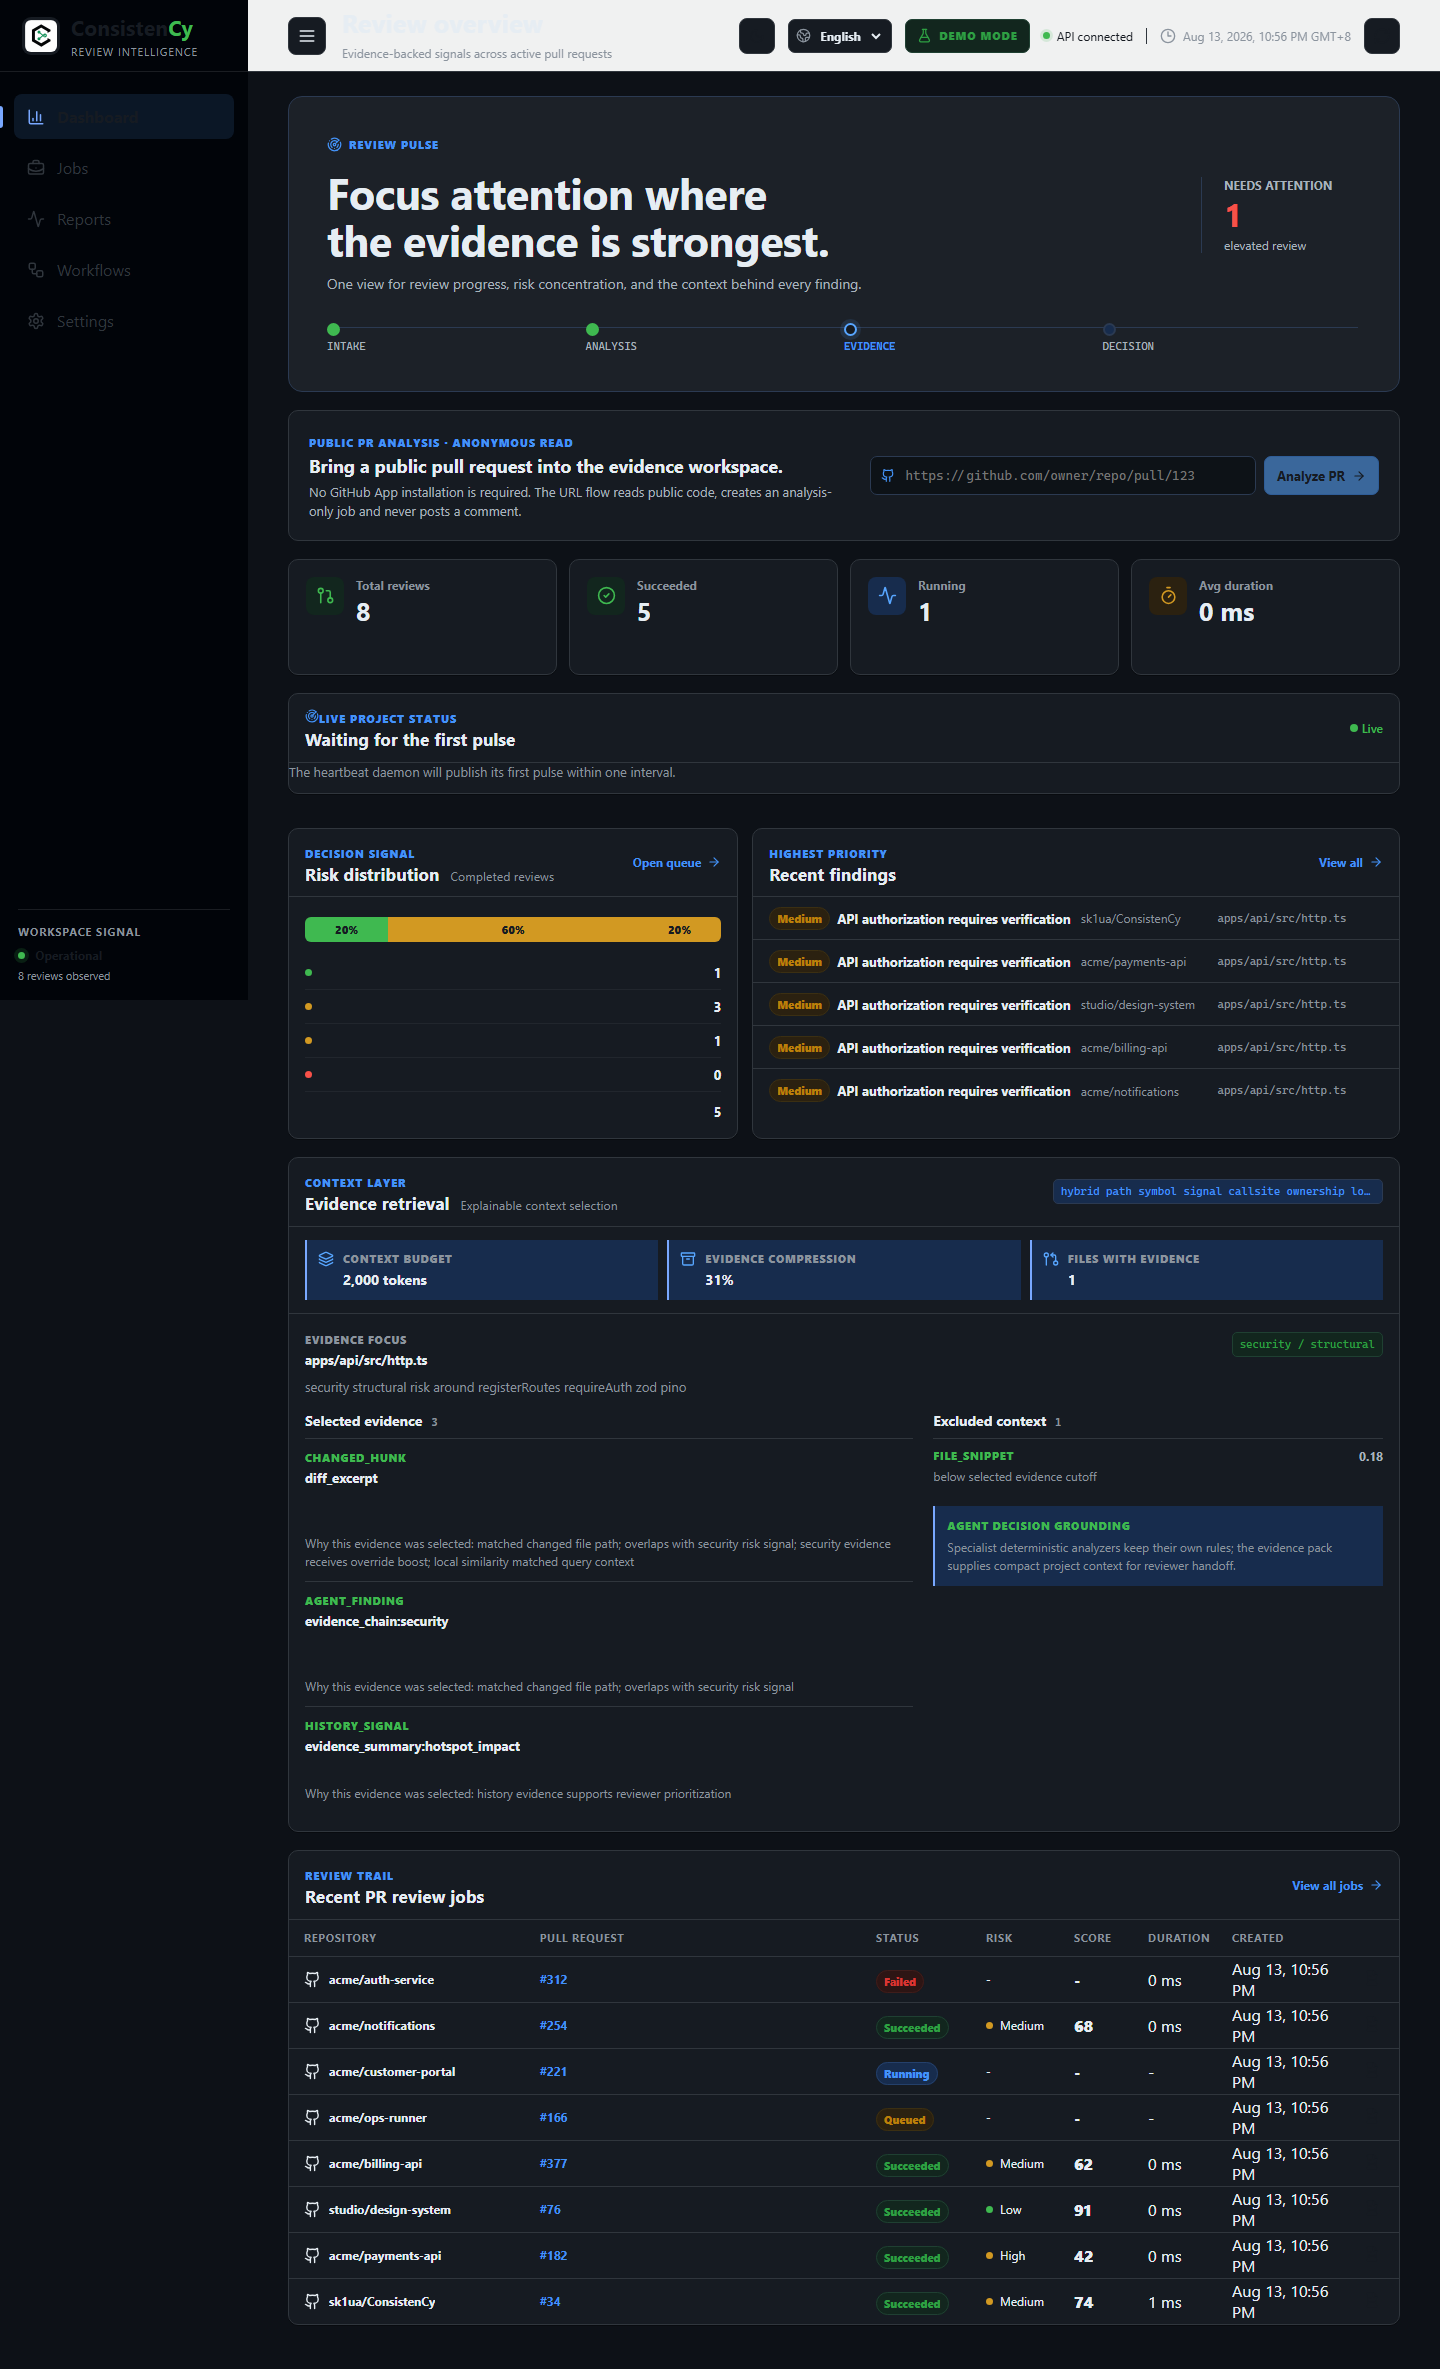
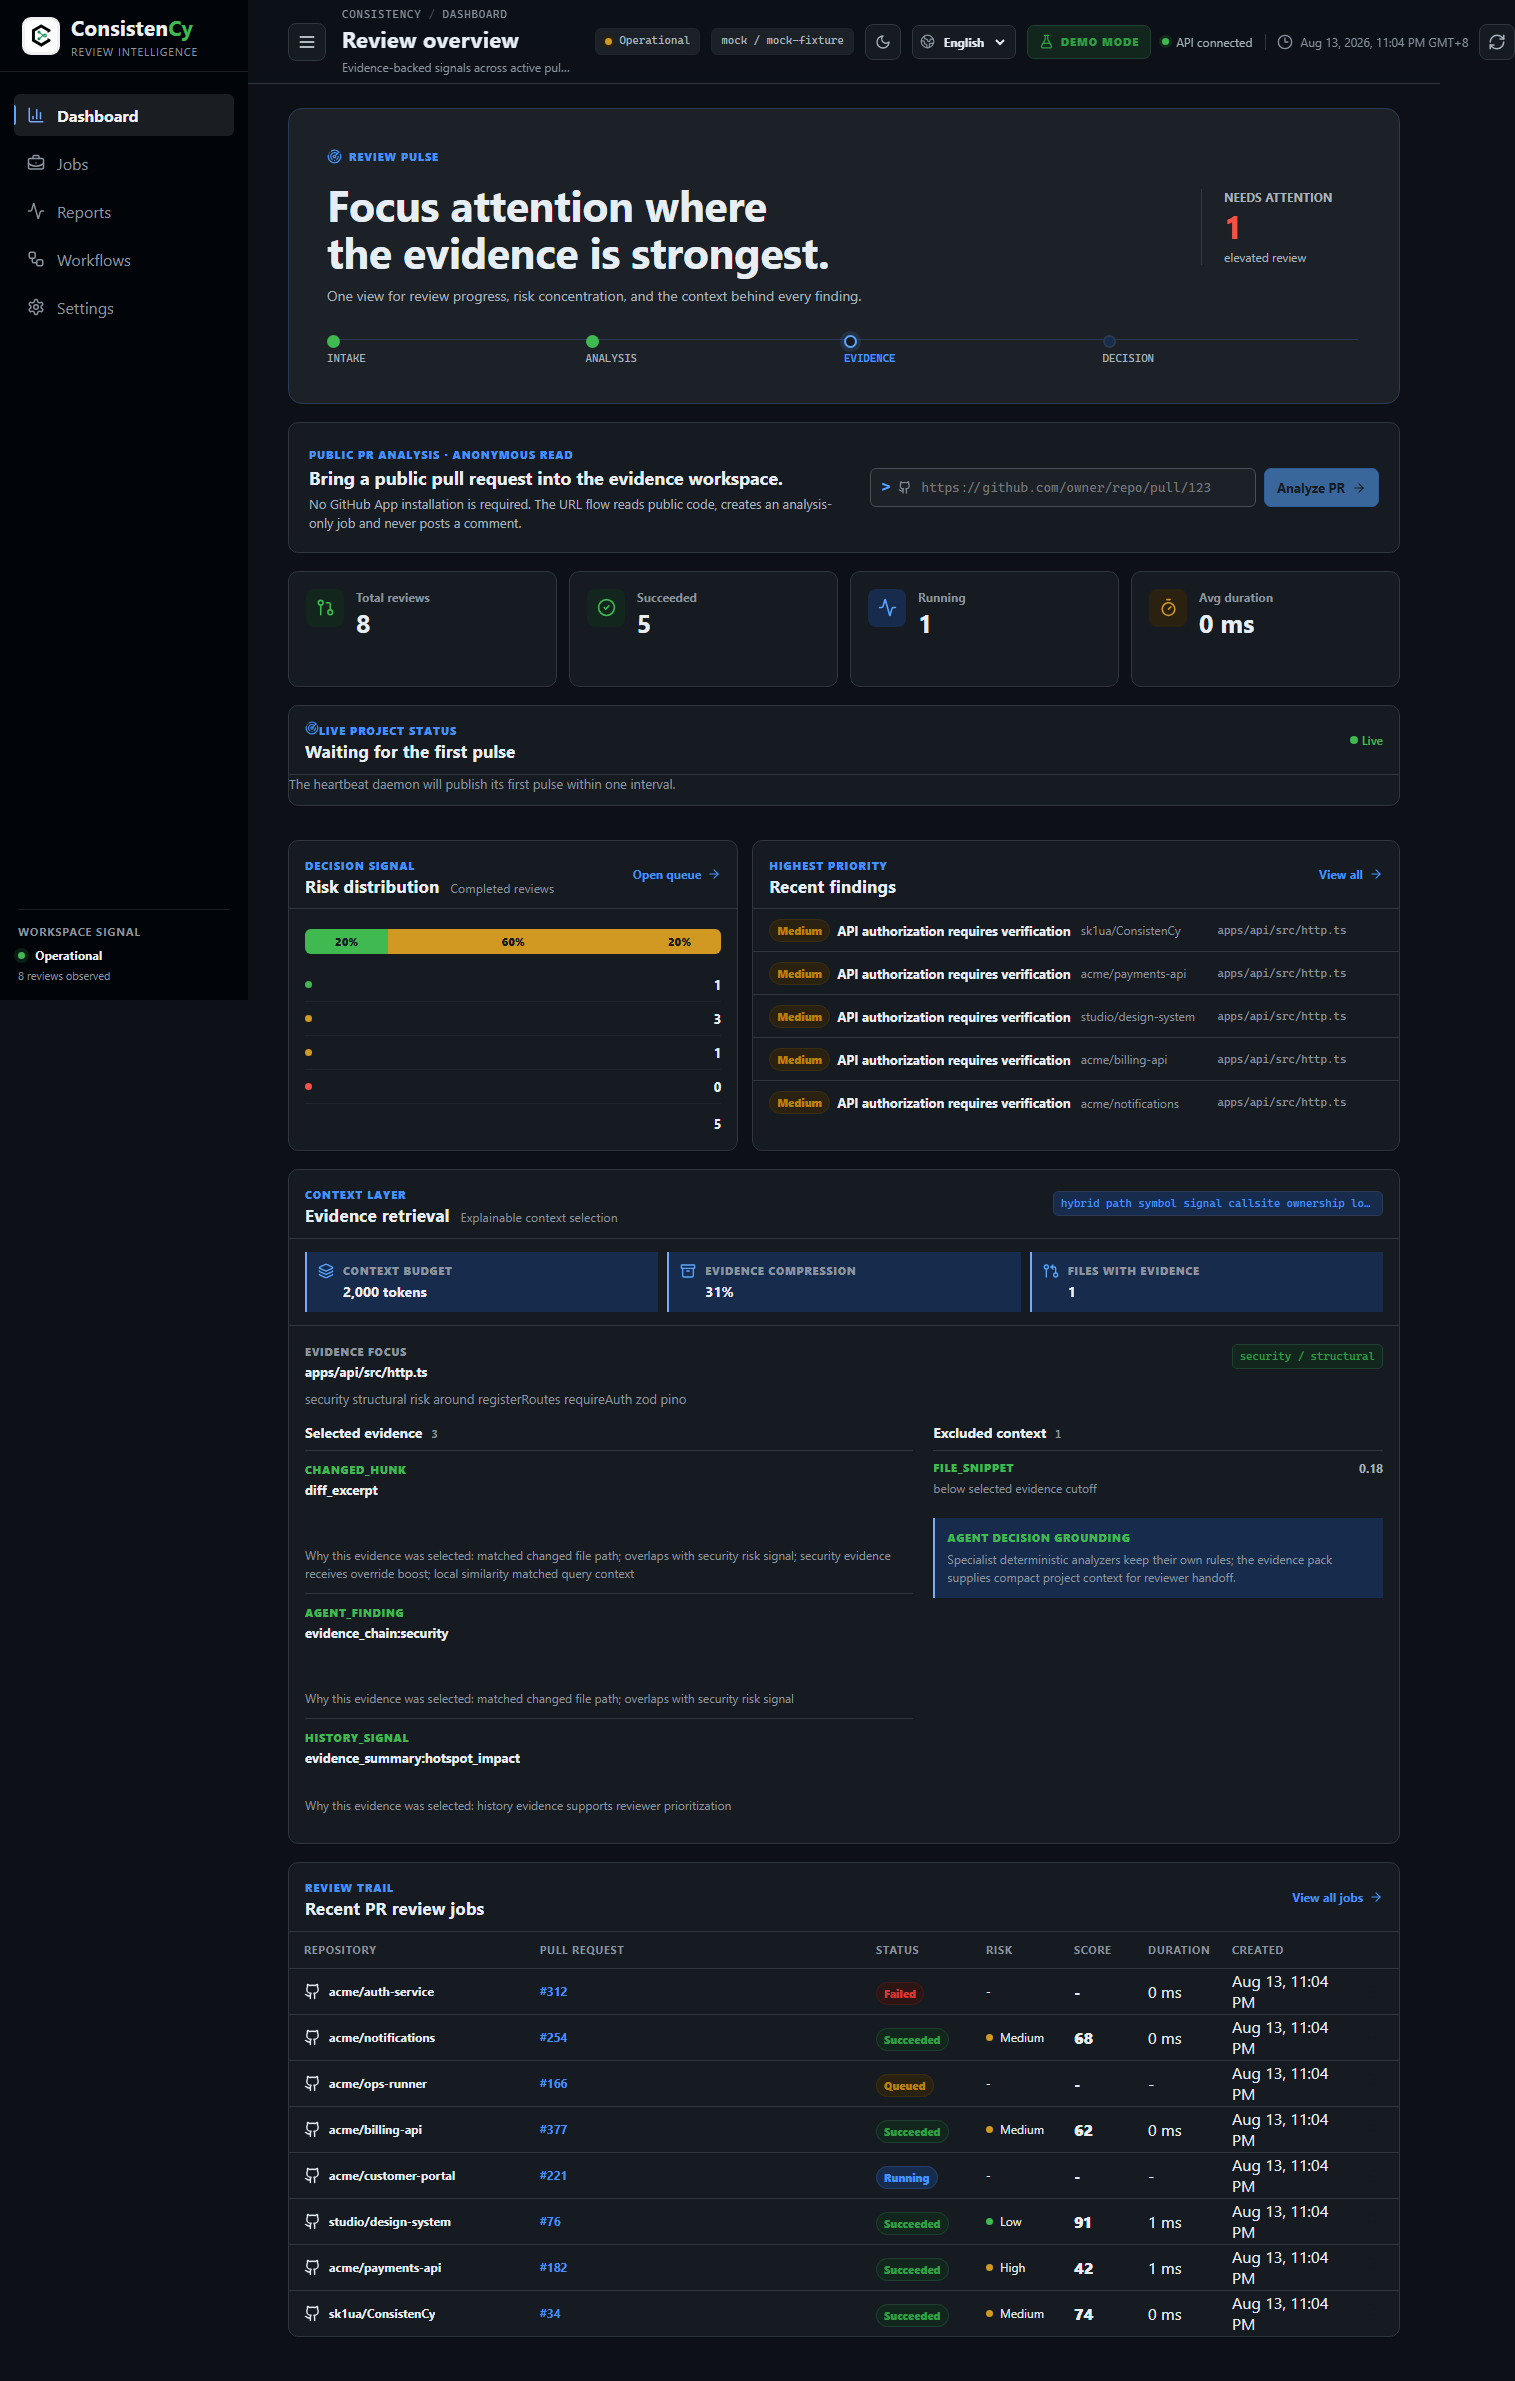
feat(web): IDE-style shell - sidebar strip, header breadcrumb and status chips
Sidebar active state becomes a left accent strip on a subtle highlight; nav text contrast fixed for both themes. Header gains a mono breadcrumb and a status line (heartbeat chip + LLM provider/model chip, hidden below 1100px). Public PR intake becomes a command-style input with a > prompt and mono placeholder. Fixes two token misassignments from the sweep (header background, trust strip, setup rail) and makes the conversation notebook composer mono.

diff --git a/apps/web/src/styles/shell.css b/apps/web/src/styles/shell.css
@@ -13,7 +13,7 @@
   display: flex;
   flex-direction: column;
   background: var(--sidebar);
-  color: var(--surface);
+  color: var(--sidebar-text-bright);
 }
 .brand {
   height: 72px;
@@ -29,7 +29,7 @@
   padding: 3px;
   object-fit: contain;
   border-radius: 9px;
-  background: var(--surface);
+  background: var(--sidebar-text-bright);
 }
 .brand > span {
   min-width: 0;
@@ -60,39 +60,39 @@
 .app-sidebar nav button {
   position: relative;
   width: 100%;
-  height: 45px;
+  height: 42px;
   padding: 0 13px;
   display: flex;
   align-items: center;
   gap: 12px;
   border: 0;
-  border-radius: 8px;
+  border-radius: 6px;
   background: transparent;
-  color: var(--border);
+  color: var(--sidebar-muted);
   cursor: pointer;
   text-align: left;
   transition: background .16s ease, color .16s ease;
 }
 .app-sidebar nav button::before {
   position: absolute;
-  left: -14px;
+  left: 0;
   width: 3px;
-  height: 22px;
-  border-radius: 0 3px 3px 0;
+  height: 20px;
+  border-radius: 0 2px 2px 0;
   background: transparent;
   content: "";
 }
 .app-sidebar nav button:hover {
   background: var(--sidebar-faint);
-  color: var(--surface);
+  color: var(--sidebar-text-bright);
 }
 .app-sidebar nav button.active {
-  background: var(--primary-wash);
-  color: var(--surface);
+  background: var(--sidebar-highlight);
+  color: var(--sidebar-text-bright);
   font-weight: 650;
 }
 .app-sidebar nav button.active::before {
-  background: var(--primary-muted-text);
+  background: var(--primary);
 }
 .app-sidebar nav button.active svg {
   color: var(--primary-muted-text);
@@ -142,15 +142,28 @@
   position: sticky;
   top: 0;
   z-index: 4;
-  min-height: 72px;
+  min-height: 84px;
   padding: 0 clamp(18px, 3vw, 40px);
   display: flex;
   align-items: center;
   justify-content: space-between;
   gap: 24px;
   border-bottom: 1px solid var(--border);
-  background: var(--sidebar-text-bright);
+  background: var(--header-bg);
   backdrop-filter: blur(14px);
+}
+.header-breadcrumb {
+  margin: 0 0 4px;
+  display: flex;
+  align-items: center;
+  gap: 7px;
+  color: var(--muted);
+  font: 11px/1.4 var(--font-mono);
+  letter-spacing: .07em;
+  text-transform: uppercase;
+}
+.header-breadcrumb .sep {
+  color: var(--border-strong);
 }
 .header-title {
   min-width: 0;
@@ -164,7 +177,7 @@
 .header-title h1 {
   margin: 0;
   font-family: var(--font-display);
-  font-size: 25px;
+  font-size: 22px;
   line-height: 1.15;
   letter-spacing: .01em;
 }
@@ -192,7 +205,37 @@
   min-width: 0;
   display: flex;
   align-items: center;
-  gap: 13px;
-  color: var(--sidebar-hover);
+  gap: 11px;
+  color: var(--muted-strong);
   font-size: 12px;
+}
+.status-chip {
+  display: inline-flex;
+  align-items: center;
+  gap: 7px;
+  padding: 4px 9px;
+  border: 1px solid var(--border-subtle);
+  border-radius: 6px;
+  background: var(--surface-subtle);
+  color: var(--muted-strong);
+  font: 11px/1.5 var(--font-mono);
+  white-space: nowrap;
+}
+.status-chip .status-dot {
+  width: 7px;
+  height: 7px;
+  flex: 0 0 auto;
+  border-radius: 50%;
+  background: var(--muted);
+}
+.status-chip .status-dot.live {
+  background: var(--success);
+  box-shadow: 0 0 0 3px var(--success-wash);
+}
+.status-chip .status-dot.idle {
+  background: var(--warning);
+  box-shadow: 0 0 0 3px var(--warning-soft);
+}
+@media (max-width: 1100px) {
+  .status-chip { display: none; }
 }

diff --git a/apps/web/src/pages/DashboardPage.tsx b/apps/web/src/pages/DashboardPage.tsx
@@ -59,7 +59,7 @@ export function DashboardPage({ stats, jobs, reports, onOpenJob, onOpenJobs, onA
     </section>
     <section className="public-pr-intake">
       <div className="public-pr-copy"><span className="panel-kicker">{t("Public PR analysis")} · {publicPrAccessMode === "pat" ? t("PAT read") : publicPrAccessMode === "disabled" ? t("disabled") : t("anonymous read")}</span><h2>{t("Bring a public pull request into the evidence workspace.")}</h2><p>{t("No GitHub App installation is required. The URL flow reads public code, creates an analysis-only job and never posts a comment.")}</p></div>
-      <form onSubmit={event => { event.preventDefault(); if (publicPrUrl.trim() && onAnalyzePublicPr) void onAnalyzePublicPr(publicPrUrl.trim()); }}><label><Github size={15} /><span className="sr-only">{t("GitHub pull request URL")}</span><input aria-label={t("GitHub pull request URL")} value={publicPrUrl} onChange={event => setPublicPrUrl(event.target.value)} placeholder="https://github.com/owner/repo/pull/123" /></label><button type="submit" disabled={!onAnalyzePublicPr || publicPrAnalyzing || !publicPrUrl.trim()}>{publicPrAnalyzing ? t("Resolving…") : t("Analyze PR")}<ArrowRight size={14} /></button></form>
+      <form onSubmit={event => { event.preventDefault(); if (publicPrUrl.trim() && onAnalyzePublicPr) void onAnalyzePublicPr(publicPrUrl.trim()); }}><label><span className="command-prompt" aria-hidden="true">&gt;</span><Github size={15} /><span className="sr-only">{t("GitHub pull request URL")}</span><input aria-label={t("GitHub pull request URL")} value={publicPrUrl} onChange={event => setPublicPrUrl(event.target.value)} placeholder="https://github.com/owner/repo/pull/123" /></label><button type="submit" disabled={!onAnalyzePublicPr || publicPrAnalyzing || !publicPrUrl.trim()}>{publicPrAnalyzing ? t("Resolving…") : t("Analyze PR")}<ArrowRight size={14} /></button></form>
       {publicPrError && <small className="public-pr-error">{publicPrError}</small>}
     </section>
     <section className="metric-grid" aria-label={t("Review statistics")}>

diff --git a/apps/web/src/App.tsx b/apps/web/src/App.tsx
@@ -157,6 +157,7 @@ export function App() {
   }
 
   const page = pageMeta[view];
+  const activeNav = navItems.find(item => item.id === view);
 
   function navigate(nextView: View) {
     setView(nextView);
@@ -180,9 +181,14 @@ export function App() {
               setSidebarCollapsed(value => !value);
             }
           }}><Menu size={20} /></button>
-          <div><h1>{t(page.title)}</h1><p>{t(page.description)}</p></div>
+          <div>
+            <span className="header-breadcrumb">ConsistenCy<span className="sep">/</span>{t(activeNav?.label ?? page.title)}</span>
+            <h1>{t(page.title)}</h1><p>{t(page.description)}</p>
+          </div>
         </div>
         <div className="header-actions">
+          <span className="status-chip"><i className={"status-dot" + (heartbeatUnavailable ? "" : heartbeatPulse ? " live" : " idle")} />{heartbeatUnavailable ? t("Heartbeat disabled") : heartbeatPulse ? t(heartbeatStateLabel(heartbeatPulse.state)) : t("Operational")}</span>
+          {health && <span className="status-chip">{health.llmProvider}{health.llmModel ? " / " + health.llmModel : ""}</span>}
           <button className="icon-button" type="button" onClick={() => cycleTheme()} aria-label={t("Theme")} title={`${t("Theme")}: ${themeLabel}`}>{themeIcon}</button>
           <label className="language-select"><Globe2 size={15} /><span className="sr-only">{t("Language")}</span><select aria-label={t("Language")} value={locale} onChange={event => setLocale(event.target.value as "en-US" | "zh-CN")}><option value="zh-CN">中文</option><option value="en-US">English</option></select></label>
           {demoMode && <span className="demo-indicator"><FlaskConical size={15} />{t("Demo Mode")}</span>}

diff --git a/apps/web/src/styles/intake.css b/apps/web/src/styles/intake.css
@@ -44,10 +44,16 @@
   align-items: center;
   gap: 8px;
   padding: 0 10px;
-  border: 1px solid var(--primary-faint);
-  border-radius: 7px;
-  background: var(--scrim);
-  color: var(--primary-strong);
+  border: 1px solid var(--border-strong);
+  border-radius: 6px;
+  background: var(--surface-subtle);
+  color: var(--muted);
+}
+.public-pr-intake .command-prompt {
+  flex: 0 0 auto;
+  color: var(--primary);
+  font: 700 15px/1 var(--font-mono);
+  user-select: none;
 }
 .public-pr-intake input {
   width: 100%;
@@ -57,6 +63,10 @@
   background: transparent;
   color: var(--foreground);
   font: 13px/1.4 var(--font-mono);
+}
+.public-pr-intake input::placeholder {
+  color: var(--muted);
+  opacity: 1;
 }
 .public-pr-intake button {
   height: 39px;

diff --git a/apps/web/src/workspace-enhancements.css b/apps/web/src/workspace-enhancements.css
@@ -104,8 +104,8 @@
   gap: 11px;
   border: 1px solid var(--border-subtle);
   border-radius: 8px;
-  background: var(--sidebar-text);
-  color: var(--sidebar-hover);
+  background: var(--surface-muted);
+  color: var(--muted-strong);
   font-size: 11px;
   letter-spacing: .02em;
 }
@@ -264,9 +264,9 @@
 .notebook-conversation .notebook-composer textarea {
   min-height: 96px;
   padding: 12px 14px;
-  border-radius: 9px;
-  font-family: var(--font-ui);
-  font-size: 14px;
+  border-radius: 8px;
+  font-family: var(--font-mono);
+  font-size: 13px;
 }
 
 .notebook-conversation .notebook-composer button {

diff --git a/apps/web/src/styles/tokens.css b/apps/web/src/styles/tokens.css
@@ -47,6 +47,7 @@
   --sidebar-text: rgba(255, 255, 255, 0.65);
   --sidebar-text-bright: rgba(255, 255, 255, 0.94);
   --overlay: rgba(23, 32, 42, 0.5);
+  --header-bg: rgba(255, 255, 255, 0.94);
 
   /* Blue / primary */
   --primary: #2f6bff;
@@ -106,6 +107,7 @@
   --sidebar-muted: #8b949e;
   --sidebar-hover: #161b22;
   --overlay: rgba(1, 4, 9, 0.6);
+  --header-bg: rgba(13, 17, 23, 0.85);
 
   --primary: #58a6ff;
   --primary-strong: #4493f8;

diff --git a/apps/web/src/styles/settings.css b/apps/web/src/styles/settings.css
@@ -98,7 +98,7 @@
   flex: 0 0 auto;
   border: 1px solid var(--primary-faint);
   border-radius: 50%;
-  background: var(--sidebar-text);
+  background: var(--primary-soft);
   font-size: 11px;
   font-style: normal;
 }
